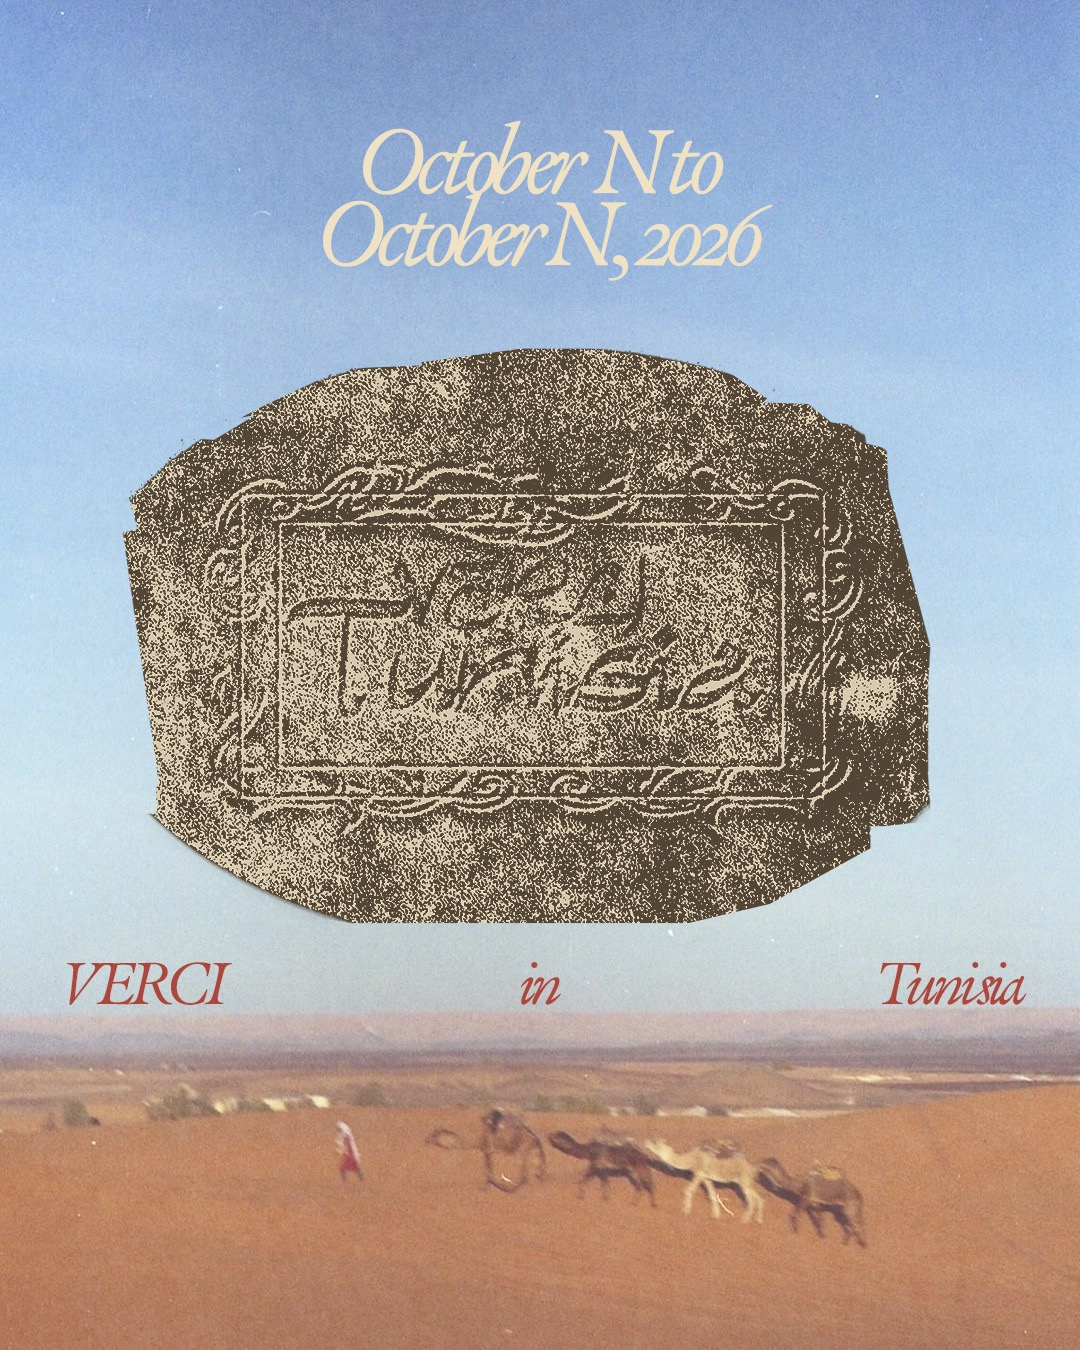
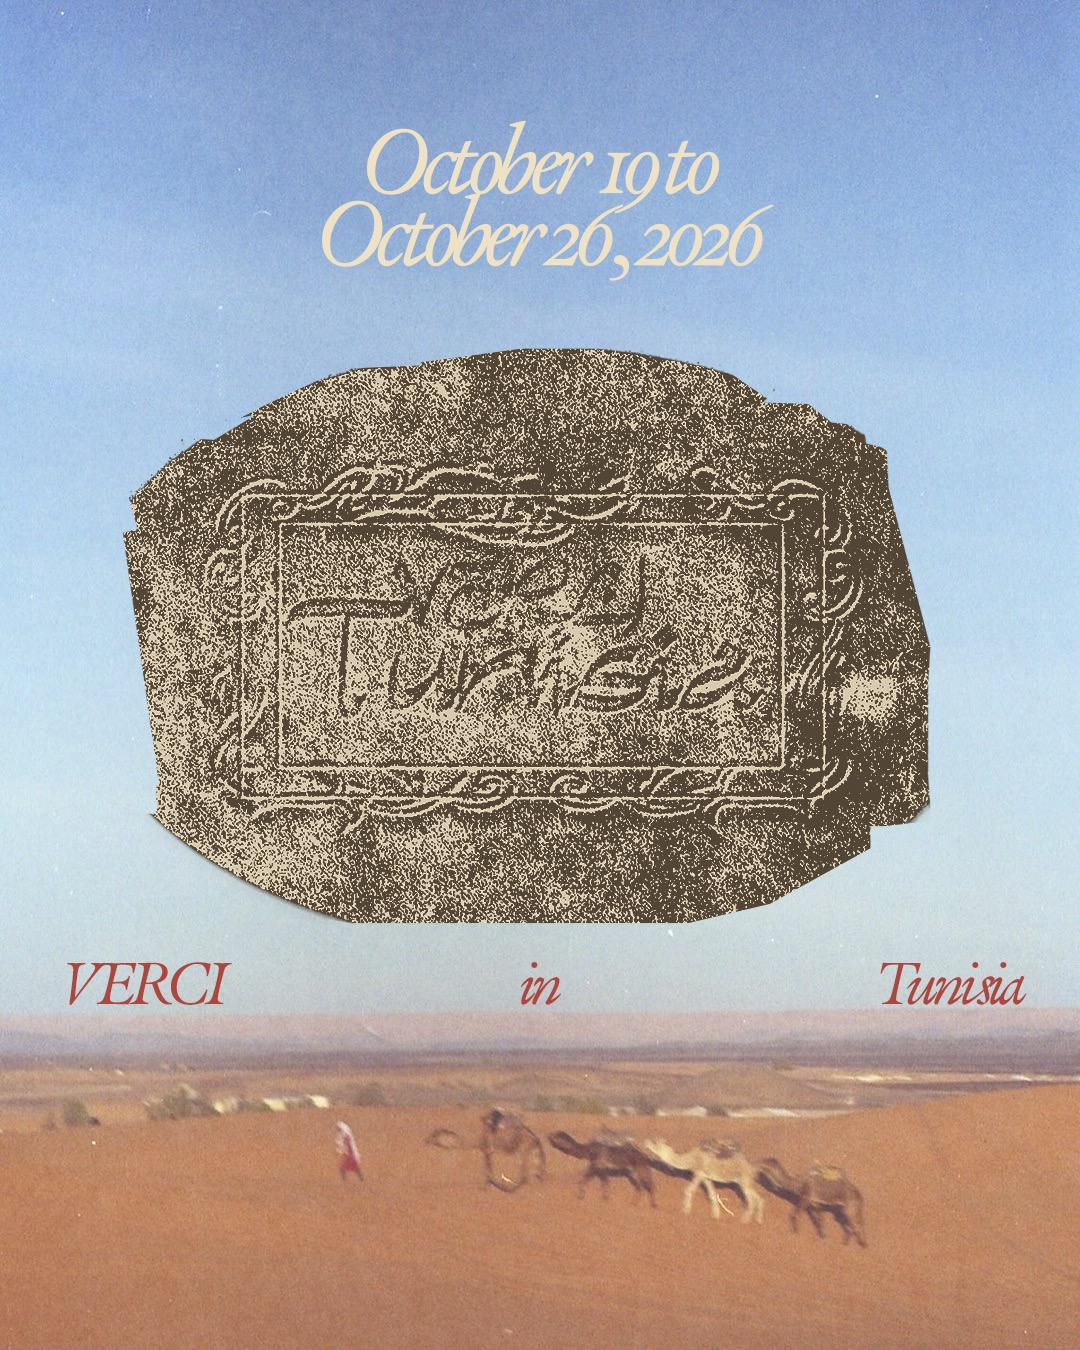
Use final-dates poster and transparent photographic stone mark in hero
Poster now shows the real trip dates (Oct 19–26, 2026). The hero stone
mark switches from the halftone jpg + multiply blend to the designer's
transparent PNG with a warm sepia tint and drop shadow, so it composites
cleanly over the sky gradient.

Changed region(s): [[0.3361, 0.0933, 0.7028, 0.2178]]

diff --git a/components/Invitation.tsx b/components/Invitation.tsx
@@ -44,13 +44,16 @@ export default function Invitation() {
           className="relative my-4 w-[clamp(240px,42vw,460px)]"
         >
           <Image
-            src="/images/brand/stone-mark.jpg"
+            src="/images/brand/stone-mark.png"
             alt="Verci Tunisia — hand-carved calligraphy mark"
             width={540}
-            height={676}
+            height={675}
             priority
-            className="w-full mix-blend-multiply"
-            style={{ filter: "contrast(1.05)" }}
+            className="w-full"
+            style={{
+              filter:
+                "sepia(0.28) saturate(0.9) contrast(1.04) drop-shadow(0 18px 30px rgba(60,50,35,0.28))",
+            }}
           />
         </motion.div>
 

diff --git a/CLAUDE.md b/CLAUDE.md
@@ -103,9 +103,10 @@ Sunrise in the desert. Breakfast at camp. Private transfer north toward Tunis wi
 - `tunisia-110.jpg` — Itinerary map
 - `tunisia-114.jpg` — Map/location pin
 - `tunisia-passport-clean.png` — Tunisian passport cover, transparent bg (map trigger object)
-- `brand/stone-mark.jpg` — hand-drawn "VERCI Tunisia" calligraphy stone-stamp mark (hero)
+- `brand/stone-mark.png` — photographic "VERCI Tunisia" calligraphy stone, transparent bg (hero)
+- `brand/stone-mark.jpg` — halftone print version of the stone mark (unused, kept as reference)
 - `brand/invitation-cards.jpg` — designer invitation card set
-- `brand/poster.jpg` — designer poster reference (OG image)
+- `brand/poster.jpg` — designer poster with final dates (Pitch collage, OG image)
 
 ## Tech Stack
 - Next.js 16 (App Router, Turbopack)